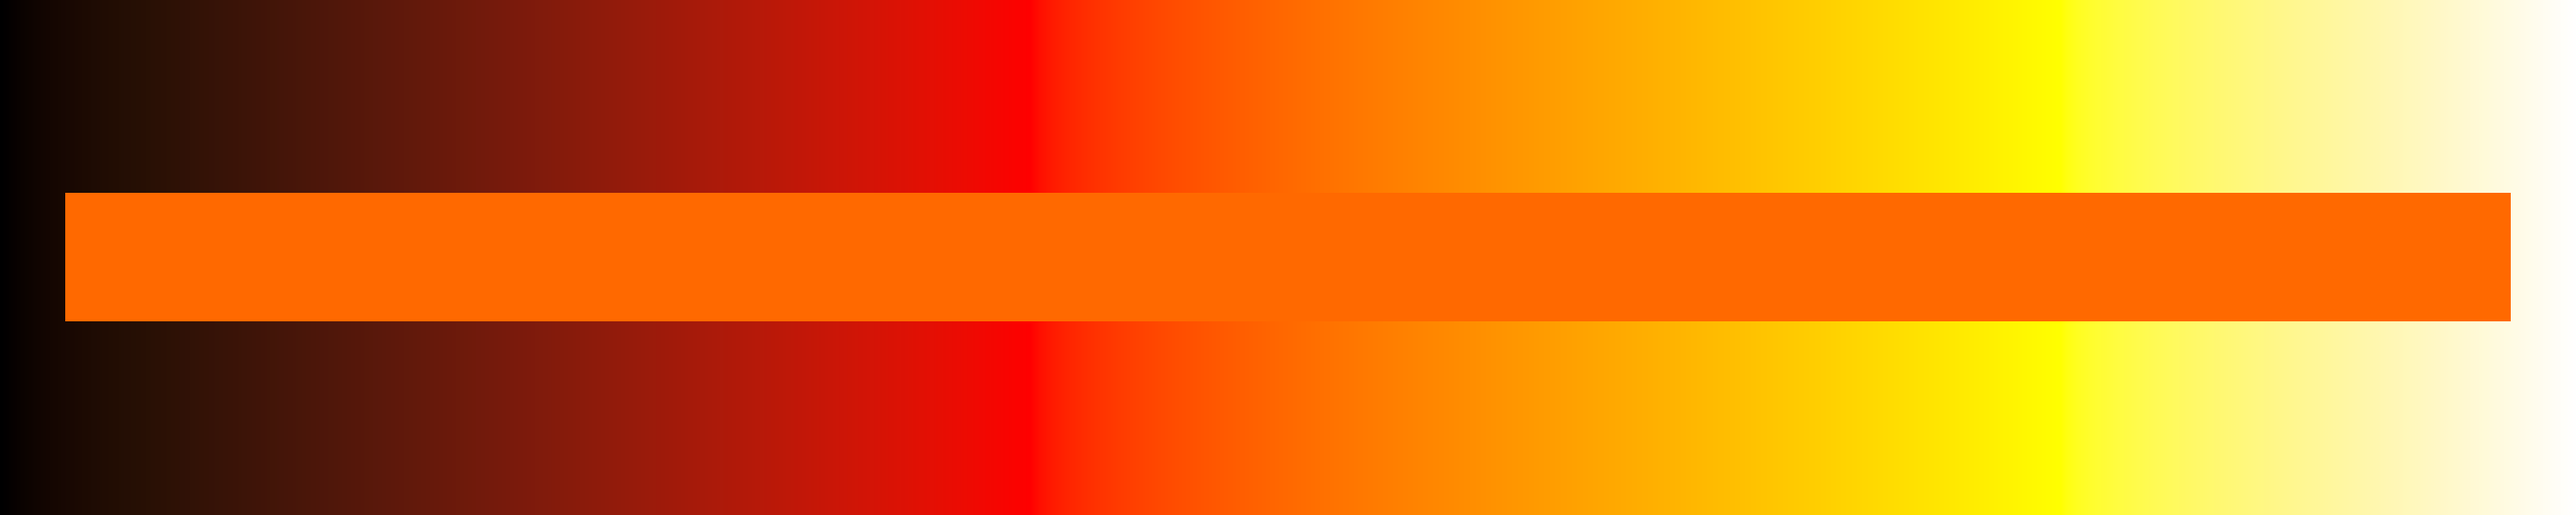
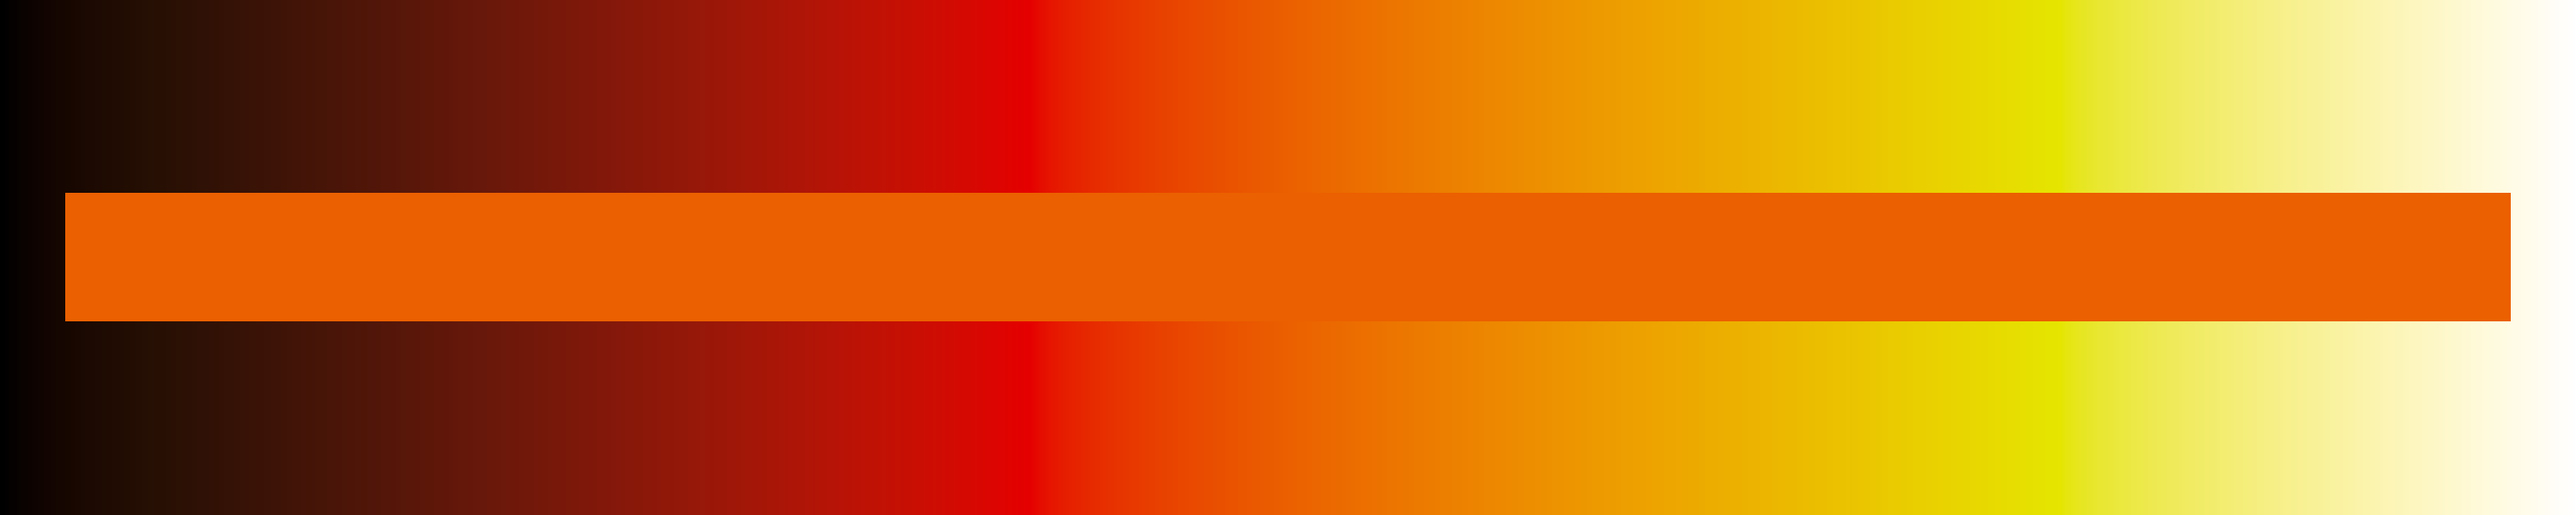
Finished subsection on color maps and added several images about them.
git-svn-id: svn+ssh://vizrd.srn.sandia.gov/svnroot/kmorel/papers/ColorMaps/trunk@26 61430140-fc74-48ae-be37-35807f1eb91a

diff --git a/ColorMaps.tex b/ColorMaps.tex
@@ -30,6 +30,13 @@
 
 \newcommand{\sticky}[1]{\textsc{[#1]}}
 
+\newcommand{\RGB}{RGB}
+\newcommand{\CMYK}{CMYK}
+\newcommand{\XYZ}{XYZ}
+\newcommand{\Lab}{CIELAB}
+\newcommand{\Luv}{CIELUV}
+\newcommand{\Msh}{Msh}
+
 \begin{document}
 
 \maketitle
@@ -130,7 +137,6 @@ which are used heavily in the subsequent discussions in this paper.
   \caption{The grayscale color map.}
   \label{fig:GrayscaleColorMap}
 \end{figure}
-
 Let us start with perhaps the simplest color map of all: the grayscale
 color map shown in Figure~\ref{fig:GrayscaleColorMap}.  Completely devoid
 of any chromaticity, this map relies entirely on luminance to demonstrate
@@ -157,23 +163,132 @@ separated by distance and background, human subjects error up to 20\%.
 This effect is demonstrated in Figure~\ref{fig:GrayscaleLocality}.  The
 problem can be corrected by adding a chromaticity shift.
 
-% \begin{figure}
-%   \centering
-%   \includegraphics[width=1.25in]{images/GrayscaleDiscontinuity}
-%   \qquad
-%   \includegraphics[width=1.25in]{images/RainbowDiscontinuity}
-%   \caption{A discontinuity in the data is easily visible with a grayscale
-%     color map (left) but is completely hidden by the rainbow color map
-%     (right).  Instead, the rainbow color map appears to show variation in
-%     the cyan and yellow regions that do not exist.}
-%   \label{fig:discontinuity}
-% \end{figure}
+\begin{figure}
+  \centering
+  \includegraphics[width=1.25in]{images/GrayscaleShading}
+  \includegraphics[width=1.25in]{images/IsoluminantShading}
+  \caption{Maps with big changes in luminance hides shading cue important
+    for determining 3D structure whereas isoluminant maps minimize shading
+    interference.}
+  \label{fig:LuminanceVsShading}
+\end{figure}
+Another problem with grayscale color maps that is of greater concern for
+general purpose scientific visualization is its interference with surface
+shading.  The shading of 3D surfaces based on light sources is of utmost
+importance for perceiving the surface shape.  These shading cues are
+composed almost entirely of luminance shifts.  Thus the luminance shift of
+the grayscale color map mask the surface luminance shifts, especially in
+the darker part of the spectrum.  The problem cannot be corrected without a
+major reduction in the range the luminance shifts in the color map.
+
+\begin{figure}
+  \centering
+  \includegraphics[width=2.5in]{images/Green2RedBar}\qquad
+  \includegraphics[width=2.5in]{images/Cyan2MauveBar}
+  \caption{Isoluminant color maps.  The green to red color map is popular
+    because it uses opposing colors \sticky{Check the nomenclature.}, but
+    the cyan to mauve color map is much easier to see by individuals with
+    deuteranope or protanopic vision.}
+  \label{fig:IsoluminantColorMap}
+\end{figure}
+Another class of color maps that is often suggested for use with 3D
+surfaces is the isoluminant color map that is demonstrated in
+Figure~\ref{fig:IsoluminantColorMap}.  Somewhat opposite to the grayscale
+map, an isoluminant map maintains a constant (perceptual) luminance and
+relies entirely on chromatic shifts.  An isoluminant color map is
+theoretically ideal for mapping onto shaded surfaces, as is demonstrated in
+Figure~\ref{fig:LuminanceVsShading}.
+
+Isoluminant color maps are not without their detractors, however.  Human
+perception is less sensitive to changes in saturation or hue than changes
+in luminance, especially for high frequency data\lcite{Rogowitz96}.
+Holding the luminance constant also restricts the colors that can be
+represented.  Thus, the isoluminant color map will have a lower fidelity
+than one in which the luminance is allowed to change.  Isoluminant color
+maps also tend to look dull and ugly, which means that a casual user will
+almost never choose one over a more vibrant color map like, say, the
+rainbow color map.
+
+However, as vibrant as the rainbow color map might be, it is actually an
+extremely poor choice.  Based on the colors of light at different
+wavelengths, the rainbow color map's design has nothing to do with how
+humans perceive color.  This results in multiple problems when humans try
+to do the reverse mapping from colors back to numbers.
+
+The first problem with the rainbow color map is that it is sensitive to
+deficiencies in vision.  Humans with color-deficient vision, such as
+protanopic vision, which effects roughly 10\% of the male population
+\sticky{Check my facts here.}, cannot resolve all of the colors of the
+rainbow color map\lcite{Light04}.
+
+The second problem is that the colors do not follow any natural perceived
+ordering.  Perceptual experiments show that although a test subject, with
+no prior training, will always order grayscale colors in order of luminance,
+the test subjects will order rainbow colors in numerous different
+ways\lcite{Ware04}.
+
+\begin{figure}
+  \centering
+  \includegraphics[width=1.0in]{images/GrayscaleSpatialContrast}
+  \qquad
+  \includegraphics[width=1.0in]{images/RainbowSpatialContrast}
+  \caption{A spatial contrast sensitivity function.  The frequency of the
+    function increases from left to right, and the contrast increases from
+    top to bottom.  Notice that the grayscale mapping faithfully reproduces
+    the function.  The rainbow color mapping hides the variation in the low
+    contrast region and appears less smooth in the high-contrast,
+    low-frequency region.}
+  \label{fig:RainbowSpatialContrast}
+\end{figure}
+
+A third problem is that the perceptual changes in the colors are not
+uniform.  The colors appear to change faster in the cyan and yellow
+regions, which can cause Mach bands in those regions.  The colors appear to
+change slower in the blue, green, and red regions, which creates larger
+bands of color.  Within these bands it can hide important changes in the
+underlying data.  Thus, the nonuniform perceptual changes works to
+simultaneously introduce artifacts and obfuscate real
+data\lcite{Borland07} as demonstrated in
+Figure~\ref{fig:RainbowSpatialContrast}.
+
+These color maps comprise the most commonly used in literature and tools
+today.  Other color maps are proposed by Ware\scite{Ware04} as well as
+several others.  Most are similar in spirit to those here with uniform
+changes in luminance, saturation, or hue or some combination thereof.
 
 \subsection{Color Spaces}
 \label{sec:PreviousWork:ColorSpaces}
 
-\section{Acknowledgements}
+The remainder of this paper relies on using different color spaces to
+describe color map generation.  This section quickly reviews some of these
+color spaces.
 
+All color spaces are based on the tri-color stimulous theory, which states
+that any perceived color can be uniquely represented by a 3-tuple
+\sticky{Reference}.  This result is a side effect of the fact that there
+are exactly 3 different types of color receptors in the human eye.
+
+The color space most frequently used is the \RGB color space
+\sticky{Reference}.  This color space is adopted by many graphics packages
+such as OpenGL and is presented to users by just about every computer
+application in existence that provides a color chooser.  The three values
+in the \RGB color space refer to the intensity output by each of the three
+wavelengths of light used by monitors, televisions, and projectors to
+create colors.  There is also a similar \CMYK color space that defines
+colors by how printers mix ink \sticky{Reference}.
+
+Although the \RGB and \CMYK color spaces are good for many practical
+purposes, since they are defined exactly over the gamut of colors that can
+be displayed, it is sometimes useful to define colors over the gamut of
+visible colors.  However, it is not as useful for describing colors that
+are visible but not representable by the display.  To this end the
+International Commission on Illumination (better known as CIE from its
+French title, the \emph{Commission Internationale de l'Eclairage}) convened
+in \sticky{when?} and defined the \XYZ color space.  The \XYZ color space
+provides a convienient way to consistently describe all visible colors.
+
+
+\section{Acknowledgements}
 
 This work was done at Sandia National Laboratories.  Sandia is a
 multiprogram laboratory operated by Sandia Corporation, a Lockheed Martin
